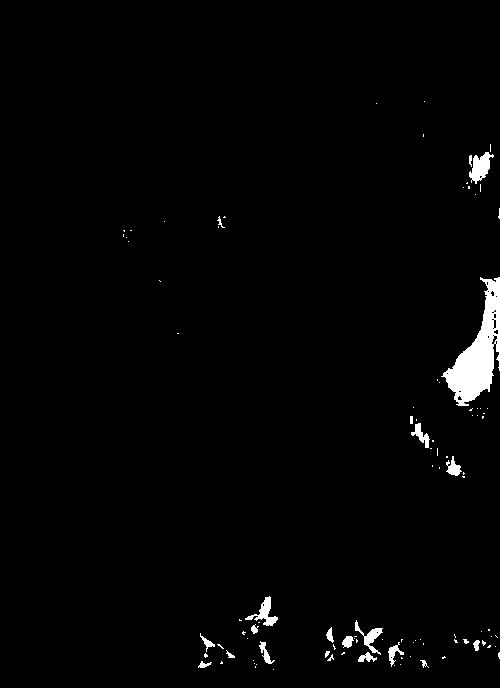
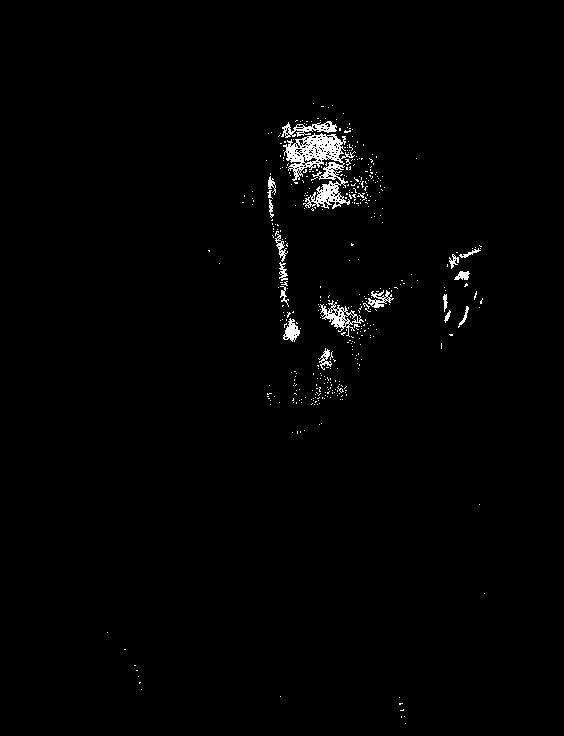
working now

diff --git a/main.py b/main.py
@@ -1,8 +1,6 @@
 from PIL import Image, ImageFilter, ImageDraw, ImageEnhance, ImageOps
 import os
 
-def percent_to_8bit(percent):
-    return (percent * 255) / 100
 
 def apply_threshold(image, threshold_percent=50):
     """ Returns a thresholded image
@@ -10,6 +8,11 @@ def apply_threshold(image, threshold_percent=50):
     :param Image image: a PIL image object
     :param int threshold_percent: 0 to 100 percent
     """
+
+    def percent_to_8bit(percent):
+        """ Scale the percent into an 8 bit value """
+        return int((percent * 255) / 100)
+
     threshold_value = percent_to_8bit(threshold_percent)
 
     grayscaled_img = image.convert("L")
@@ -39,20 +42,42 @@ def dump_histogram(image, output_path, threshold_lines):
 
 class Layer:
 
-    def __init__(self):
-        self.in_path = None
-        self.in_dir = None
-        self.out_path = None
-        self.name = None
+    def __init__(
+            self, 
+            name,
+            raw_image,
+            threshold_percent,
+            canvas_color=(255, 255, 255),
+            out_dir="./output",
+            ):
 
-        self.threshold_value = None
-        self.rotate = False
-        self.mirror = False
+        self.name = name
+        self.out_dir = out_dir
+        self.canvas_color=canvas_color
 
-        self.image = None
+        self.threshold_percent = threshold_percent
 
-    def save(self):
-        pass
+        self._image = raw_image
+
+    def save_threshold_mask(self):
+        self.threshold_mask.save(os.path.join(self.out_dir, self.name + ".jpg"))
+
+    @property
+    def raw_image(self):
+        return self._image
+
+    @property
+    def size(self):
+        return self.raw_image.size
+
+    @property
+    def colored_canvas(self):
+        R, G, B = self.canvas_color
+        return Image.new("RGBA", self.raw_image.size, (R, G, B, 255))
+
+    @property
+    def threshold_mask(self):
+        return apply_threshold(self.raw_image, self.threshold_percent)
 
 input_image_path = "./input/input.jpg"
 output_image_dir = "./output/"
@@ -75,33 +100,25 @@ enhancer = ImageEnhance.Contrast(raw_image)
 darker_img = enhancer.enhance(1.5)
 low_contrast_img = enhancer.enhance(0.5)
 
-shadow_img = apply_threshold(raw_image, threshold_lines[0])
-midtone_img = apply_threshold(raw_image, threshold_lines[1])
-fleshtone_img = apply_threshold(raw_image, threshold_lines[2])
-highlights_img = apply_threshold(raw_image, threshold_lines[3])
+shadow_layer = Layer(name="shadow", raw_image=raw_image, threshold_percent=25, canvas_color=(0, 0, 0))
+midtone_layer = Layer(name="midtone", raw_image=raw_image, threshold_percent=50, canvas_color=(0x58, 0x09, 0x9C))
+fleshtone_layer = Layer(name="fleshtone", raw_image=raw_image, threshold_percent=75, canvas_color=(0xFF, 0xAE, 0))
+#highlights_layer = Layer(name="highlights", raw_image=raw_image, threshold_percent=85, canvas_color=(255, 255, 0))
 
-shadow_img.save(os.path.join(output_image_dir, "shadow" + output_image_suffix))
-midtone_img.save(os.path.join(output_image_dir, "midtone" + output_image_suffix))
-fleshtone_img.save(os.path.join(output_image_dir, "fleshtone" + output_image_suffix))
-highlights_img.save(os.path.join(output_image_dir, "highlights" + output_image_suffix))
+shadow_layer.save_threshold_mask()
+midtone_layer.save_threshold_mask()
+fleshtone_layer.save_threshold_mask()
+# highlights_layer.save_threshold_mask()
+
 raw_image.save(os.path.join(output_image_dir, "orig_mirrored" + output_image_suffix))
 posterized_img.save(os.path.join(output_image_dir, "posterized" + output_image_suffix))
 darker_img.save(os.path.join(output_image_dir, "contrast_high" + output_image_suffix))
 low_contrast_img.save(os.path.join(output_image_dir, "contrast_low" + output_image_suffix))
 
-images_to_composite = [highlights_img, fleshtone_img, midtone_img, shadow_img]
-images_to_composite = [midtone_img, shadow_img]
-
-composite_image = Image.new('RGBA', shadow_img.size, (255, 255, 255, 255))
-white = Image.new("RGB", shadow_img.size, "white")
-
-## Stack the thresholded images with varying saturation levels
-for i, thresholded_image in enumerate(images_to_composite):
-    composite_image.composite(composite_image, white, thresholded_image)
-
-# Save the composite image
+composite_image = Image.new('RGBA', shadow_layer.size, (255, 255, 255, 255))
+# composite_image = Image.composite(composite_image, highlights_layer.colored_canvas, highlights_layer.threshold_mask)
+composite_image = Image.composite(composite_image, fleshtone_layer.colored_canvas, fleshtone_layer.threshold_mask)
+composite_image = Image.composite(composite_image, midtone_layer.colored_canvas, midtone_layer.threshold_mask)
+composite_image = Image.composite(composite_image, shadow_layer.colored_canvas, shadow_layer.threshold_mask)
 composite_image.save("./output/composite.png")
-
-# Can I blue, yellow it?
-
 
